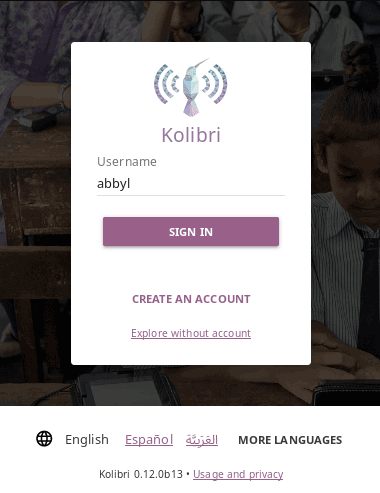
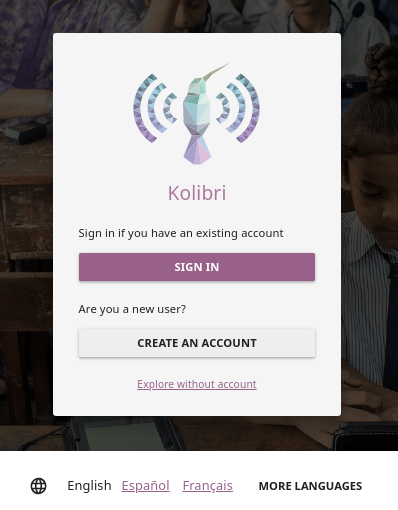
Coach updates without screenshots

diff --git a/docs/manage/resources.rst b/docs/manage/resources.rst
@@ -53,13 +53,6 @@ Import Channels and Resources into Kolibri
   **To import your own files for use in Kolibri**, you need to register at `Kolibri Studio <https://studio.learningequality.org/accounts/login/>`__ site (it's free), and build your own channel that you can subsequently import into Kolibri. Read more about how to do this in our `Kolibri Studio user guide <https://kolibri-studio.readthedocs.io/en/latest/index.html>`__.
 
 
-.. warning
-  Kolibri database and resources may become temporarily unavailable while importing or updating large resources channels. Therefore, as a precaution, we recommend you:
-
-  * avoid other interactions with Kolibri (view learner pages or manage users, for example) while resources import is in progress
-  * perform these maintenance operations outside the periods when system is being used by learners
-
-
 To import resources into Kolibri, follow these steps.
 
 #. Click :guilabel:`IMPORT` in the **Channels** tab on the **Device** page.
@@ -212,8 +205,6 @@ If the computer where Kolibri server is running does not have access to Internet
   .. figure:: /img/import-local-drive2.png
     :alt: Importing resources from a local drive presents the same interface options as importing from Kolibri Studio.
 
-.. TO-DO (image)
-
 
 Update Channels
 ---------------
@@ -225,7 +216,7 @@ Public channels on Kolibri Studio are periodically updated from their original s
 To update a channel to its latest version and import new resources into Kolibri, follow these steps.
 
 #. Click the :guilabel:`MANAGE` button for the channel you want to update.
-#. When a new channel version is available, you will see the notification. Click the :guilabel:`VIEW CHANGES` button.
+#. When a new channel version is available, you will see the notification. Click the *View changes* link.
    
     .. figure:: /img/view-changes.png
       :alt: 
@@ -237,10 +228,26 @@ To update a channel to its latest version and import new resources into Kolibri,
 
       Notification for the new version of the resources channel.
 
+
+#. Click the :guilabel:`UPDATE CHANNEL` button, and then :guilabel:`CONTINUE` to confirm.
+
+    .. figure:: /img/update-channel-confirm.png
+      :alt: 
+
+      Confirm that you want to update channel to the new version.
+
     .. warning:: Use caution when updating channels that have been used to make **currently-active** :ref:`lessons <manage_lessons>` and :ref:`quizzes <manage_quizzes>`. The structure and location of some resources inside the channel may have changed in the updated version, which can cause lessons and quizzes to not load correctly. 
 
-4. Click the :guilabel:`UPDATE CHANNEL` button.
-5. You will see the update progress in the **Task manager** page. Once the update concludes, the newly imported and updated resources will be available to use in Kolibri.
+#. After the channel has been updated to the newest version, you will see the page with the list of all the topics that contain new resources. Proceed to select what you want to import, or check **Select all** to import everything at once.
+
+    Review the number and disk size of selected resources at the bottom and click the :guilabel:`IMPORT` button.
+
+    .. figure:: /img/select-updated-resources.png
+      :alt: 
+
+      Select the resources you want to update.
+
+#. You will see the update progress in the **Tasks** page. Once the update concludes, the newly imported and updated resources will be available to use in Kolibri.
 
 
 .. warning:: 

diff --git a/docs/learn.rst b/docs/learn.rst
@@ -19,13 +19,21 @@ Sign in to Kolibri
 
 To sign in to **Kolibri** and start learning, follow these steps:
 
-#. Type your username and password (may be optional).
-#. Click the :guilabel:`SIGN IN` button.
+#. Click the :guilabel:`SIGN IN` button if you already have an account and the username.
 
 	.. figure:: img/login-modal.png
 	  :alt: Input your username and password (if required) on the main sign in page.
 
 	  Main Kolibri sign in page.
+
+	If you have used the same device before, you may see the field to directly type in your username and password (if required) on the main sign in page.
+
+	If the device you are using has more than one facility, you will have to select the facility (for example you school name) that your account is associated with, and only then input your username and password (if required). 
+
+	.. figure:: img/login-modal-facility.png
+	  :alt: 
+
+	  Select facility on the Kolibri sign in page.
 
 
 .. _sign_in_page:
@@ -33,16 +41,16 @@ To sign in to **Kolibri** and start learning, follow these steps:
 .. warning::
    If you start browsing Kolibri as a guest, you need either to select **Sign in** option from the **Guest** menu in the upper right corner, or from the sidebar menu (left or bottom) to open the sign-in page.
 
-.. figure:: img/learn-page-signin.png
-  :alt: Open the sidebar to access the sign in link.
+	.. figure:: img/learn-page-signin.png
+	  :alt: Open the sidebar to access the sign in link.
 
-  "Sign in" link in the sidebar.
+	  "Sign in" link in the sidebar.
 
 
-.. figure:: img/learn-page-signin2.png
-  :alt: Open the user menu to access the sign in link.
+	.. figure:: img/learn-page-signin2.png
+	  :alt: Open the user menu to access the sign in link.
 
-  "Sign in" link in the user menu.
+	  "Sign in" link in the user menu.
 
 
 Once you have signed in to Kolibri, you can see and edit your user data from the **Profile** option: access it from the main sidebar menu (below **Learn**), or from the user menu.
@@ -73,6 +81,10 @@ To create your own account on a **Kolibri** facility and start learning, follow 
 
 #. Click the :guilabel:`CREATE AN ACCOUNT` button on :ref:`Kolibri sign in page <sign_in_page>`. 
 #. Type in your chosen username and password (twice).
+#. If there is more than one facility on the server device, make sure that the one where you want to create an account with is visible under the *Facility* heading. 
+
+	If it is not, use the browser *back* button, and select the correct facility.
+	
 #. Click the *Usage and privacy* link to read more information about who will have access to your personal information.
 #. Click the :guilabel:`CONTINUE` button.
 #. Select your birth year and gender. This information is optional, and you can choose not to provide it.

diff --git a/docs/coach/lessons.rst b/docs/coach/lessons.rst
@@ -7,7 +7,6 @@ Manage Lessons
 Kolibri **Lessons** offer you the possibility to prepare smaller selections of available learning resources and assign them to learners on a temporary basis. You can select resources from multiple channels, and copy the created lessons to other classes or groups as needed. 
 
 To view, create or delete lessons, as well as assign them to learners, use the **Lessons** sub-tab in the **Plan** tab (|edit| icon) of your **Coach** dashboard. Default view displays the list of all lessons created for the selected class, the number of resources they contain, groups they are assigned to, and their status indicator. 
-.. You can filter the lessons in order to see all, or just active/inactive ones. 
 
 
 .. figure:: /img/lessons.png
@@ -88,7 +87,7 @@ You can change the recipients of the lesson, reassigning the lesson to a differe
 
 #. Select the desired lesson from the list in the **Lessons** tab.
 #. Click the :guilabel:`OPTIONS` button and select **Edit details**.
-#. Select **Entire class** or the group(s) of learners to whom you wish to assign the lesson under the *Recipients* heading.
+#. Select the entire class, groups or inidividual learners to whom you wish to assign the lesson under the *Recipients* heading.
 #. Click :guilabel:`SAVE CHANGES` to confirm, or :guilabel:`CANCEL` to exit without change.
 
 
@@ -104,7 +103,7 @@ To copy a lesson to a different group or another class of your facility, follow 
       :alt: 
 
 3. Select the class to which you wish to copy the lesson to.
-4. If the destination class has more than one group, select **Entire class** or the group(s) of learners to whom you wish to assign the lesson.
+4. Select the entire class, groups or inidividual learners to whom you wish to assign the lesson.
 5. Click :guilabel:`COPY` to confirm, or :guilabel:`CANCEL` to exit without change.
 
 If the lesson is copied to another group in the same class, it will appear in the **Lessons** tab as the *Copy of...*. Follow the steps in the next heading to rename it.

diff --git a/docs/coach/quizzes.rst b/docs/coach/quizzes.rst
@@ -9,6 +9,9 @@ You can view, create and delete quizzes, as well as assign them to learners, usi
   .. figure:: /img/manage-quizzes.png
     :alt: 
 
+.. TO-DO (image)
+.. TO-DO (icon)
+
 .. note::
   To manage **Quizzes** |exams| in Kolibri classes and groups you must sign in as **coach**, **admin** or **super admin**.
 
@@ -59,7 +62,7 @@ To create a new quiz |exams|, click the :guilabel:`NEW QUIZ` button.
 Change Quiz Recipients
 """"""""""""""""""""""
 
-Newly created quizzes are by default visible to entire class. To change quiz *Recipients*, that is select group(s) of learners instead of the whole class, follow these steps.
+Newly created quizzes are by default visible to entire class. To change quiz *Recipients*, that is select groups or individual learners instead of the whole class, follow these steps.
 
 #. Select the desired quiz from the list in the **Quizzes** subtab.
 #. Click the :guilabel:`OPTIONS` button and select the **Edit details** option.
@@ -69,6 +72,7 @@ Newly created quizzes are by default visible to entire class. To change quiz *Re
   .. figure:: /img/exam-visibility.png
     :alt: 
 
+.. TO-DO (image)
 
 Start and End Quiz
 """"""""""""""""""
@@ -98,7 +102,7 @@ To copy a quiz to a different group or another class, follow these steps.
       :alt: Use the radio buttons to select the class where you want to copy the quiz to.
 
 #. Select the class to which you wish to copy the quiz to and click :guilabel:`CONTINUE`.
-#. If the destination class has more than one group, select **Entire class** or the group(s) of learners to whom you wish to assign the lesson.
+#. Select the entire class, groups or inidividual learners to whom you wish to assign the lesson under the *Recipients* heading.
 #. Click :guilabel:`COPY` to confirm, or :guilabel:`CANCEL` to exit without change.
 
 If the quiz is copied to another group in the same class, it will appear in the **Quizzes** tab as the *Copy of...*. Follow the steps in the next section to rename it.

diff --git a/docs/manage/facilities.rst b/docs/manage/facilities.rst
@@ -1,0 +1,40 @@
+.. _facilities:
+
+Facilities
+##########
+
+You can import, sync and remove the facilities on your Kolibri device from the **Facilities** tab in your **Device** dashboard ( icon). 
+
+..TO-DO (icon)
+
+.. note::
+  To manage facilities on the device you must have the **super admin** permissions.
+
+
+.. figure:: ../img/facilities.png
+	:alt: Open the Device page and navigate to Facilities tab.
+
+	Manage the facilities on the device.
+
+Import a Facility on Device
+***************************
+
+If you are part of a wider learning environment, where your device is used to store the data from other facilities that are offline, you must import those facilities first. Once you have imported the facility on your device, you can periodically connect to their local netowrk and sync the learner progress data.
+
+To import a facility on your device, follow these steps.
+
+#. Click the :guilabel:`Import facility` button. 
+
+#. Continue wiht the steps described in the :ref:`initial setup section <import_facility>`.
+
+
+Sync Facility
+*************
+
+
+
+
+
+Remove Facility
+***************
+

diff --git a/docs/coach/index.rst b/docs/coach/index.rst
@@ -14,6 +14,7 @@ Click on a class to access the progress-tracking features and create lessons, qu
 
 .. _track_progress:
 
+
 Class Home
 ~~~~~~~~~~
 
@@ -23,7 +24,6 @@ On the **Class Home** tab (|class-home| icon) you can see the overview of the cl
 	  :alt: Open the Coach page to view the list of classes
 
 	  Class Home presents an overview of learner progress and activity.
-
 
 
 Quizzes
@@ -60,8 +60,8 @@ As learners interact with lessons and quizzes, you can track their progress in t
 * You can click each notification link to review the complete resource data in the **Reports** tab.
 * Click :guilabel:`VIEW ALL` to access the full list of activity notifications (only the 5 most recent are displayed in the block).
 
-
 .. _reports:
+
 
 Reports
 ~~~~~~~
@@ -108,9 +108,8 @@ Use the options in the **Plan** tab to create and manage the lessons, quizzes, a
   quizzes
   groups
 
-
-
 .. _coach_resource:
+
 
 Coach Support Resources
 ~~~~~~~~~~~~~~~~~~~~~~~

diff --git a/docs/install/initial_setup.rst b/docs/install/initial_setup.rst
@@ -139,6 +139,8 @@ Create a New Facility
 
 Once you finish the initial setup, proceed to :ref:`import some learning resources <manage_resources_ref>`, and :ref:`create users <manage_users_ref>` (if you chose the Admin-managed facility setup). Make sure to check how to :ref:`configure other computers <access_LAN>` in the network to access Kolibri.
 
+.. _import_facility:
+
 
 Import Facility
 ***************

diff --git a/docs/manage/index.rst b/docs/manage/index.rst
@@ -14,5 +14,6 @@ Manage Kolibri
   resources
   device
   permissions
+  facilities
   device_info
   get_support
